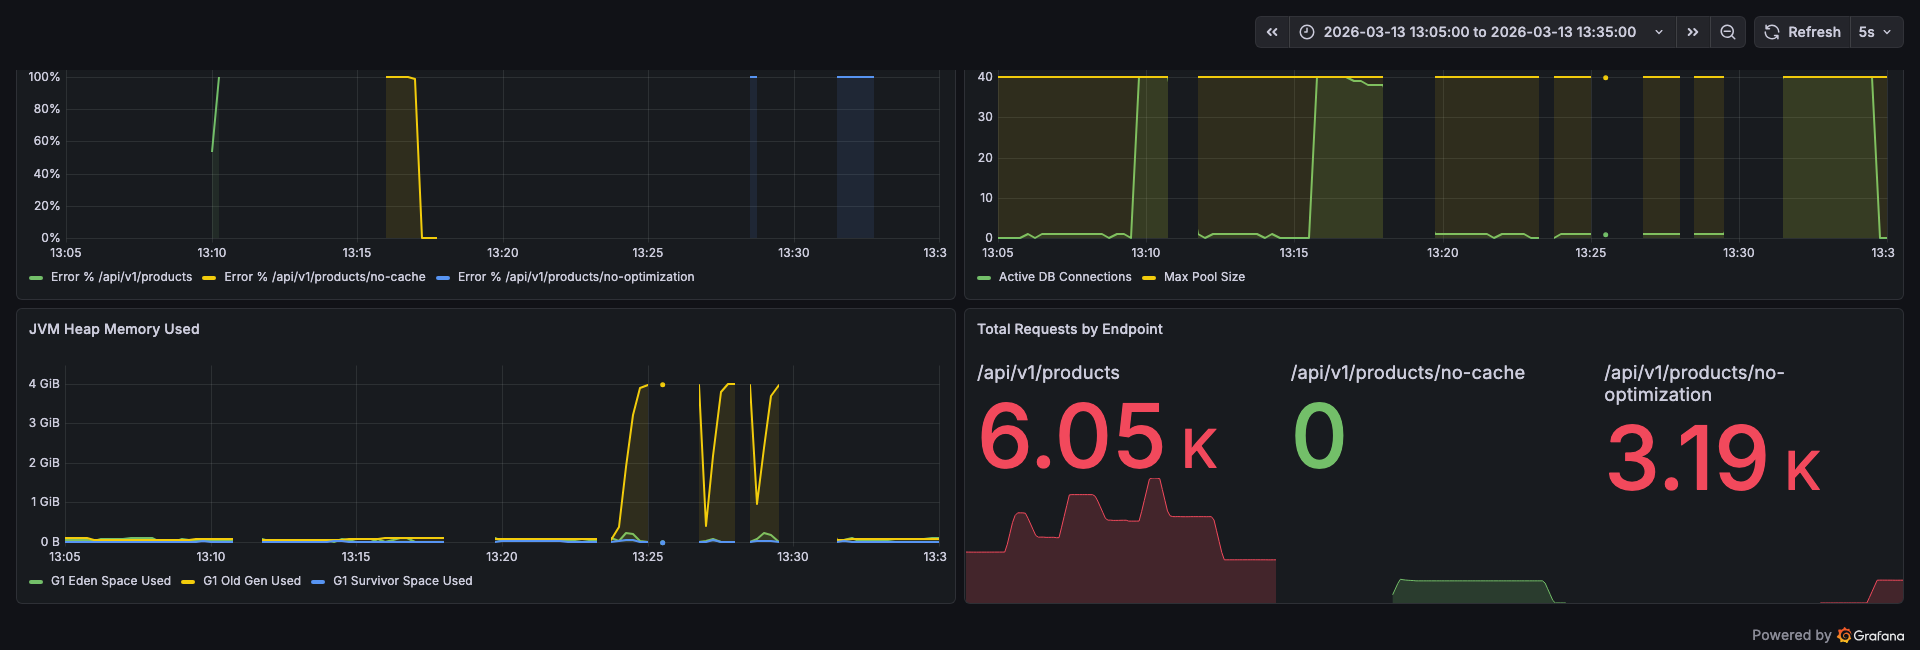
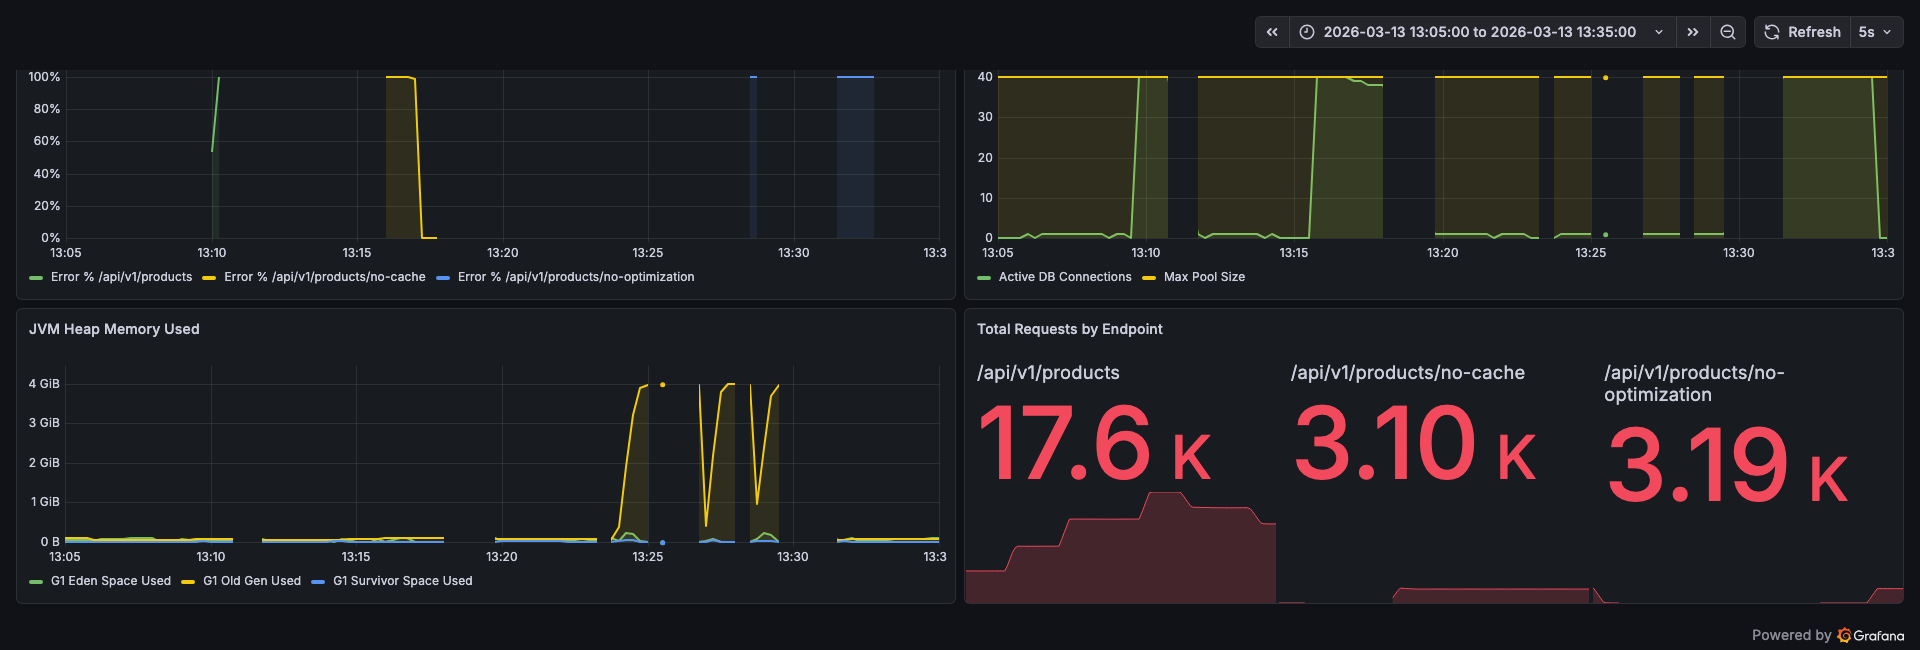
docs: 블로그 톤 개선 + Grafana Total Requests 패널 수정
- 블로그를 "왜 그렇게 판단했는가" 중심으로 전면 재작성
- TL;DR 추가, AS-IS/TO-BE 비교 강화, 판단 흐름이 읽히는 톤
- Grafana Total Requests 쿼리를 [15m] → [$__range]로 수정
  → no-cache 엔드포인트가 0으로 표시되던 문제 해결 (3.10K로 정상 표시)

diff --git a/blog/blog-week5-read-optimization.md b/blog/blog-week5-read-optimization.md
@@ -1,88 +1,168 @@
-# "상품 조회가 느리다" — 인덱스, 비정규화, 멀티 레이어 캐시로 읽기 성능을 구조적으로 개선한 과정
+# 좋아요 순으로 정렬하자 서버가 하염없이 느려졌다
 
 ---
 
-## 문제 인식
-
-이커머스 API의 상품 목록 조회가 느렸다. 원인은 세 가지였다.
-
-1. **전량 로딩**: 10만 건의 상품을 메모리에 올려 Java `Comparator`로 정렬
-2. **매 요청마다 COUNT 집계**: 좋아요 수를 `likes` 테이블에서 `GROUP BY`로 계산
-3. **캐시 부재**: 동일한 쿼리가 매번 DB를 직격
-
-단건 응답 시간이 2초(10만 건), 308초(1000만 건). K6로 200 RPS를 걸면 99.4% 요청이 실패했다. 서비스 불능 상태였다.
+> **TL;DR**: 1000만 건 상품 목록 조회가 100% 실패하던 구조를, 인덱스 + 비정규화 + 멀티 레이어 캐시(L1 Caffeine + L2 Redis)로 P95 8ms / 에러율 0%까지 개선했다. 이 글은 그 과정에서 내린 판단들과, 왜 그렇게 결정했는지에 대한 기록이다.
 
 ---
 
-## 최적화 전략 — 세 겹의 방어선
+## 문제를 처음 마주했을 때
 
-### 1. 인덱스 + 비정규화: DB 레벨에서 해결
+상품 목록 조회 API에 좋아요 순 정렬을 추가하면서 문제가 시작됐다.
 
-좋아요 수를 `likes` 테이블에서 매번 `COUNT(*)`로 파생시키던 구조를 `Product.likeCount` 컬럼으로 비정규화했다. 이전 주차에서 쓰기 경합 제거를 위해 `likeCount`를 제거했었다. 하지만 읽기 병목이 명확해진 시점에서, **트레이드오프의 축이 바뀌었다**고 판단했다.
+처음에는 단순하게 접근했다. `likes` 테이블에서 `GROUP BY product_id`로 좋아요 수를 세고, Java `Comparator`로 정렬하면 되지 않을까. 10만 건 정도에서는 2초 걸렸다. 느리긴 했지만 동작은 했다.
+
+그런데 데이터를 1000만 건으로 늘려보니 상황이 달라졌다. 단건 응답이 308초. K6로 100 rps를 걸면 99% 이상의 요청이 타임아웃으로 실패했다. 이건 "느린 서비스"가 아니라 **서비스 불능** 상태였다.
+
+원인을 분석해보니 세 가지가 겹쳐 있었다.
+
+1. 전체 상품을 메모리에 올려 정렬하고 있었다 (DB가 아닌 Java에서)
+2. 좋아요 수를 매 요청마다 COUNT 집계로 파생시키고 있었다
+3. 동일한 쿼리가 반복되는데 캐시가 없었다
+
+하나만 고쳐서는 안 될 것 같았다. 각각의 문제에 대해 어떤 순서로, 어떤 기준으로 접근할지 고민했다.
+
+---
+
+## 판단 1. 좋아요 수를 어디에 둘 것인가
+
+가장 먼저 마주한 건 `likeCount`의 위치 문제였다.
+
+사실 이전에 쓰기 경합을 줄이기 위해 `likeCount` 컬럼을 의도적으로 제거한 적이 있었다. 좋아요가 몰릴 때 같은 row에 대한 UPDATE 경합이 발생하니까, 차라리 `COUNT(*)`로 파생시키는 게 낫다고 판단했었다.
+
+그런데 이번에 읽기 병목을 마주하면서, 같은 구조를 다른 눈으로 보게 됐다.
 
 | 시점 | 우선순위 | 결정 |
 |------|---------|------|
-| 이전 주차 | 쓰기 경합 해소 > 읽기 성능 | `likeCount` 제거, `COUNT(*)` 파생 |
-| 이번 주차 | 읽기 성능 > 쓰기 경합 | `likeCount` 재도입, atomic SQL로 경합 최소화 |
+| 이전 | 쓰기 경합 해소 > 읽기 성능 | `likeCount` 제거, `COUNT(*)` 파생 |
+| 현재 | 읽기 성능 > 쓰기 경합 | `likeCount` 재도입, atomic SQL로 경합 최소화 |
 
-비정규화와 함께 유스케이스 기반 복합 인덱스 4개를 설계했다.
+**트레이드오프의 축이 바뀌었다**고 느꼈다. 쓰기 경합은 atomic UPDATE(`SET like_count = like_count + 1`)로 줄일 수 있지만, 1000만 건에서 매번 `COUNT(*) GROUP BY`를 치는 건 구조적으로 한계가 있었다. "이전에 내린 판단이 틀렸다"기보다는, 문제의 무게중심이 달라졌다.
+
+---
+
+## 판단 2. 인덱스를 어떻게 설계할 것인가
+
+비정규화만으로는 부족했다. 1000만 건에서 `ORDER BY like_count DESC`를 하면, 인덱스 없이는 전체 테이블 스캔 + filesort가 발생한다.
+
+처음에는 `like_count`에 단일 인덱스를 걸었다. 그런데 브랜드 필터가 걸리면 인덱스를 타지 못했다. `WHERE brand_id = ? ORDER BY like_count DESC` — 이 조합은 단일 컬럼 인덱스로 커버되지 않는다.
+
+결국 **유스케이스별로 복합 인덱스**를 설계했다.
 
 ```
-idx_product_like_count        (like_count DESC, id DESC)         → 전체 + 좋아요순
+idx_product_like_count        (like_count DESC, id DESC)           → 전체 + 좋아요순
 idx_product_brand_like_count  (brand_id, like_count DESC, id DESC) → 브랜드 필터 + 좋아요순
-idx_product_brand_price       (brand_id, price ASC, id ASC)      → 브랜드 필터 + 가격순
-idx_likes_product_id          (product_id)                       → 좋아요 카운트 커버링 인덱스
+idx_product_brand_price       (brand_id, price ASC, id ASC)        → 브랜드 필터 + 가격순
+idx_likes_product_id          (product_id)                         → 좋아요 카운트 커버링
 ```
 
-EXPLAIN 결과, 1000만 건에서 스캔 행이 **9,955,217 → 20**으로 감소했다. 인덱스가 이미 정렬되어 있으므로 `LIMIT`만큼만 읽는다.
+EXPLAIN으로 전후를 비교해보니 차이가 명확했다.
 
-### 2. Redis 캐시: 네트워크 너머의 방어선
+**AS-IS (인덱스 없음)**:
+```
+type: ALL | rows: 9,955,217 | Extra: Using filesort
+```
 
-인덱스로 쿼리 자체는 빨라졌지만, 매 요청이 DB를 치는 구조는 RPS가 올라가면 HikariCP 풀(40개)이 포화된다. Cache-Aside 패턴의 Redis 캐시를 적용했다.
+**TO-BE (복합 인덱스 적용)**:
+```
+type: range | rows: 20 | Extra: Using index condition
+```
 
-- **상품 상세**: `product:detail:{id}`, TTL 10분
-- **상품 목록**: `product:list:v{version}:brand:...:sort:...:page:...`, TTL 5분
-- **무효화**: 목록은 버전 기반 — `INCR product:list:version`으로 O(1) 무효화. `SCAN`/`KEYS` 패턴 삭제를 회피
+스캔 행이 9,955,217 → 20으로 줄었다. 인덱스가 이미 정렬되어 있으므로 `LIMIT`만큼만 읽고 멈춘다.
 
-Redis 장애 시에는 try-catch로 DB 직접 조회. 캐시는 **필수 의존이 아니라 최적화 계층**이다.
+---
 
-### 3. L1 Caffeine + L2 Redis: 멀티 레이어 캐시
+## 판단 3. 인덱스만으로 충분한가
 
-모든 캐시 조회가 Redis 네트워크 왕복(1~3ms)을 거치고 있었다. 인기 상품처럼 반복 조회되는 데이터에 대해 JVM 로컬 캐시(Caffeine)를 L1으로 추가하면, 같은 스레드 풀에서 더 많은 요청을 처리할 수 있다.
+여기서 한 가지 착각할 뻔했다. EXPLAIN 결과가 극적으로 좋아지니까, "인덱스면 충분하지 않나?"라는 생각이 들었다.
 
-**Look-Aside 흐름:**
+그래서 **인덱스만 적용하고 캐시를 뺀 상태**로 부하 테스트를 돌려봤다. 결과는 예상 밖이었다.
+
+| 시나리오 | P95 | Error Rate | 처리량 |
+|---------|-----|-----------|--------|
+| 인덱스 없음 | 3.01s | 100% | 51 rps |
+| **인덱스+비정규화, 캐시 없음** | **3.02s** | **99.65%** | **35 rps** |
+
+인덱스를 걸었는데 오히려 처리량이 떨어졌다. 왜?
+
+Grafana의 HikariCP 패널에서 답을 찾았다. **커넥션 40개가 전부 점유**되어 있었다. 인덱스가 단건 쿼리를 빠르게 하는 건 맞지만, 100 rps로 동시에 밀려오는 요청이 각각 DB 커넥션을 잡으면, 커넥션 풀이 포화되면서 뒤따르는 요청들이 대기 큐에 빠진다. 한 건의 쿼리가 1ms여도, **커넥션을 기다리는 시간이 3초**가 된다.
+
+이 시점에서 깨달은 것: 캐시의 본질적 가치는 "빠른 응답"이 아니라 **"DB에 안 가게 하는 것"** 이다.
+
+---
+
+## 판단 4. 캐시 전략을 어떻게 설계할 것인가
+
+캐시를 적용하기로 했다. 그런데 결정할 게 많았다.
+
+### TTL은 어떻게?
+
+- 상품 상세: TTL 10분. 상품 정보는 자주 바뀌지 않고, 변경 시 명시적으로 evict한다.
+- 상품 목록: TTL 5분. 목록은 새 상품 등록, 좋아요 변동 등으로 상대적으로 자주 바뀐다.
+
+처음에는 둘 다 10분으로 뒀는데, 목록 캐시가 너무 오래 유지되면 "방금 좋아요 눌렀는데 순위가 안 바뀌어요" 같은 불만이 생길 것 같았다. 결국 목록의 TTL을 짧게 조정했다.
+
+### 무효화 전략은?
+
+상품 상세는 단건이니까 `evict(productId)`로 충분하다. 문제는 목록이었다. 브랜드, 정렬, 페이지 조합으로 캐시 키가 무수히 많다.
+
+처음에는 패턴 매칭 삭제(`SCAN`)를 고려했다. 하지만 키가 수천 개일 때 O(N) 순회는 Redis에 부담이 된다. 결국 **버전 기반 무효화**를 선택했다.
+
+```
+캐시 키: product:list:v{version}:brand:3:sort:likeCount:page:0:size:20
+무효화: INCR product:list:version → 기존 키는 자연스럽게 miss
+```
+
+O(1)이고, 기존 키는 TTL이 만료되면 알아서 정리된다. 다만 무효화 시 모든 목록 캐시가 한꺼번에 miss되는 thundering herd 가능성은 있다. 현재 규모에서는 DB가 충분히 감당할 수 있다고 판단했지만, 트래픽이 10배로 늘면 재고해야 할 지점이다.
+
+### Redis 장애 시에는?
+
+try-catch로 감싸서 DB 직접 조회로 폴백한다. 캐시는 **최적화 계층이지 필수 의존이 아니다**. 이 원칙은 처음부터 정해두고 싶었다.
+
+---
+
+## 판단 5. 왜 Redis만으로 부족하다고 생각했는가
+
+Redis 캐시만 적용한 상태에서 P95가 10ms, 에러율 0%까지 떨어졌다. 충분히 만족할 만한 수치다.
+
+그런데 한 가지 마음에 걸렸다. 모든 캐시 조회가 Redis 네트워크 왕복을 거치고 있었다. Docker 환경에서 Redis가 localhost라 1ms 미만이지만, 실 운영에서 Redis가 별도 서버에 있으면 왕복 1~3ms가 추가된다. 수천 RPS에서 그 차이가 Tomcat 스레드 점유 시간으로 누적되면?
+
+인기 상품 상위 0.5%만 JVM 로컬 캐시(Caffeine)에 올리면 네트워크 비용 자체를 없앨 수 있다. 메모리는 ~1.5MB. 무시 가능한 비용이다.
+
 ```
 GET:   L1(Caffeine) hit → 반환 (μs)
        L1 miss → L2(Redis) hit → L1 backfill → 반환 (ms)
        양쪽 miss → DB 조회 → L2 저장 → L1 저장
-
-PUT:   L2 먼저 → L1  (L2가 truth source)
-EVICT: L1 먼저 → L2  (stale 서빙 시간 최소화)
 ```
 
-| 캐시 | maxSize | TTL | 메모리 | 근거 |
-|------|---------|-----|--------|------|
-| 상품 상세 (L1) | 500 | 30초 | ~150KB | hot data 0.5% 커버 |
-| 상품 목록 (L1) | 200 | 15초 | ~1.2MB | 인기 조합 커버 |
-| **총 메모리** | — | — | **~1.5MB** | 무시 가능 |
+**벤치마크 결과 (동일 조건: 100 rps, 1분, 1000만 건)**:
+
+| 시나리오 | P50 | P95 | Error Rate | 처리량 |
+|---------|-----|-----|-----------|--------|
+| L2 Redis Only | 6.47ms | 10.19ms | 0% | 100 rps |
+| **L1+L2 Multi-Layer** | **4.76ms** | **8.04ms** | **0%** | **100 rps** |
+
+수치 차이는 2ms다. 하지만 이건 Redis가 localhost인 Docker 환경의 결과다. 실 운영에서는 이 차이가 더 벌어질 거라고 예상한다.
 
 ---
 
-## DIP — 캐시도 인터페이스로 분리한 이유
+## 판단 6. 캐시 구현체를 인터페이스로 분리한 이유
 
-Repository는 DIP를 잘 지키고 있었다. `ProductRepository`(domain interface) ← `ProductRepositoryImpl`(infrastructure). 그런데 캐시는 `ProductCacheService`라는 concrete class가 application 레이어에서 `RedisTemplate`을 직접 의존하고 있었다.
+멀티 레이어 캐시를 만들면서 구조적인 문제를 발견했다.
+
+기존 `ProductCacheService`는 application 레이어의 concrete class인데, `RedisTemplate`을 직접 의존하고 있었다. Repository는 DIP를 잘 지키고 있었는데, 캐시만 예외였다.
 
 ```
-// Repository — DIP 준수 ✅
+// Repository — DIP 준수
 ProductFacade → ProductRepository (domain interface) ← ProductRepositoryImpl (infrastructure)
 
-// 캐시 — DIP 위반 ❌
+// 캐시 — DIP 위반
 ProductFacade → ProductCacheService (concrete, RedisTemplate 직접 의존)
 ```
 
-실무 문제는 테스트에서 먼저 드러났다. `FakeProductCacheService extends ProductCacheService`에서 `super(null, null, null)`을 호출해야 했다. 생성자 시그니처가 바뀌면 모든 Fake가 깨진다.
+처음에는 "캐시니까 그냥 이대로 써도 되지 않을까" 싶었다. 그런데 테스트를 작성하면서 문제를 체감했다. Fake 객체를 만들려면 `extends ProductCacheService`에서 `super(null, null, null)`을 호출해야 했다. 생성자 파라미터가 바뀔 때마다 모든 Fake가 깨진다.
 
-**해결**: `ProductCachePort` 인터페이스를 application에, 구현체 3개를 infrastructure에 분리했다.
+L1, L2, MultiLayer 세 개의 구현체가 필요한 시점에서, 인터페이스 분리는 선택이 아니라 필수였다.
 
 ```
 ProductCachePort (application, interface)
@@ -91,76 +171,62 @@ ProductCachePort (application, interface)
   └── MultiLayerProductCacheAdapter (infrastructure, @Primary, L1+L2)
 ```
 
-호출부(`ProductFacade`, `LikeController`)는 타입과 변수명만 교체. 메서드 시그니처가 동일하므로 호출 코드의 구조적 변경은 없다. 테스트 Fake는 인터페이스를 구현하므로 생성자 의존이 사라졌다.
+호출부(`ProductFacade`, `LikeController`)는 타입과 변수명만 교체하면 됐다. 메서드 시그니처가 동일하니까.
 
 ---
 
-## 검증 — Docker 환경에서 10M 데이터로 측정
+## 검증 — 어떻게 측정했는가
 
-### 테스트 환경 구성
+"좋아졌다"고 말하려면 수치가 필요했다. 그리고 **각 계층이 얼마나 기여하는지** 분리해서 보고 싶었다.
 
-프로덕션에 가까운 조건을 로컬에서 재현했다.
+### 환경 구성
 
-- **MySQL** (Docker): 상품 1000만 건, 브랜드 500개, 회원 5000명, 좋아요 95만 건 (멱법칙 분포)
-- **Redis** (Docker): Master-Replica 토폴로지
+- **MySQL** (Docker): 상품 1000만 건, 브랜드 500개, 회원 5000명, 좋아요 95만 건
+- **Redis** (Docker): Master-Replica 구성
 - **K6**: 100 rps, 1분, constant-arrival-rate
-- **Prometheus + Grafana**: 응답 시간, 에러율, HikariCP, JVM 실시간 모니터링
+- **Prometheus + Grafana**: P95, RPS, Error Rate, HikariCP, JVM Heap 모니터링
 
 ### 비교군 설계
 
-단일 지표만으로는 "왜 이 구조를 선택했는가"를 설명할 수 없다. 각 최적화 계층의 기여분을 분리하기 위해 A/B 비교 엔드포인트를 추가했다.
+각 최적화 계층의 기여분을 분리하기 위해 A/B 비교 엔드포인트를 추가했다.
 
 | 엔드포인트 | 인덱스 | 비정규화 | 캐시 | 증명하는 것 |
 |-----------|--------|---------|------|-----------|
-| `/products/no-optimization` | X | X | X | **기준선** — 최적화 필요성 |
-| `/products/no-cache` | O | O | X | DB 레벨 최적화의 한계 |
-| `/products` (L2 Redis Only) | O | O | L2 | 분산 캐시 단독 효과 |
-| `/products` (L1+L2) | O | O | L1+L2 | 로컬 캐시 추가 효과 |
+| `/products/no-optimization` | X | X | X | 기준선 — 왜 최적화가 필요한가 |
+| `/products/no-cache` | O | O | X | 인덱스만으로 충분한가 |
+| `/products` (L2) | O | O | L2 | 캐시 하나로 얼마나 달라지는가 |
+| `/products` (L1+L2) | O | O | L1+L2 | 로컬 캐시가 추가로 줄여주는 것 |
 
-### 결과
+### Grafana에서 읽은 것
 
-| 시나리오 | P50 | P95 | Error Rate | 처리량 | 상태 |
-|---------|-----|-----|-----------|--------|------|
-| No Optimization | 3.00s | 3.01s | **100%** | 51 rps | 완전 붕괴 |
-| No Cache (인덱스+비정규화) | 3.00s | 3.02s | **99.65%** | 35 rps | 완전 붕괴 |
-| L2 Redis Only | 6.47ms | 10.19ms | 0% | 100 rps | 안정 |
-| **L1+L2 Multi-Layer** | **4.76ms** | **8.04ms** | **0%** | **100 rps** | **안정** |
+![P95 Response Time + P50/RPS](../docs/images/grafana-dashboard-top.png)
+![P50 + RPS + Error Rate + HikariCP](../docs/images/grafana-dashboard-middle.png)
+![Error Rate + HikariCP + JVM Heap + Total Requests](../docs/images/grafana-dashboard-bottom.png)
 
-**읽는 법:**
-- No Optimization → No Cache: 인덱스+비정규화를 적용해도, 1000만 건에서 100 rps를 DB만으로 감당하면 HikariCP 풀이 포화된다. **인덱스는 단건 쿼리를 빠르게 하지만, 고부하에서 DB 커넥션 경합은 별개 문제다.**
-- No Cache → L2 Redis: 캐시를 도입하면 DB 커넥션을 소비하지 않는다. P95가 3초 → 10ms로, 에러율이 99% → 0%로 전환된다. **캐시가 서비스 가용성을 결정한다.**
-- L2 Redis → L1+L2: P95 10ms → 8ms. Redis 네트워크 왕복(~2ms)을 제거한 효과다. 절대값은 작지만, RPS가 수천으로 올라가면 Tomcat 스레드 점유 시간의 차이가 누적된다.
+숫자 테이블보다 Grafana가 더 직관적으로 보여주는 것들이 있었다.
 
-### Grafana 모니터링
+**HikariCP 패널이 진짜 병목을 드러냈다.** 비캐시 구간에서 40개(Max Pool) 전부 점유, 캐시 구간에서 1~2개. 느린 쿼리 하나가 문제가 아니라, 느린 쿼리가 커넥션을 물고 놓지 않으면 뒤따르는 모든 요청이 대기에 빠진다. 이걸 보고 나서 "캐시는 속도 최적화"라는 생각이 바뀌었다. **캐시는 가용성 확보**다.
 
-![Response Time + RPS](../docs/images/grafana-10m-l1l2-response-time-rps.png)
-![Error Rate + HikariCP + JVM](../docs/images/grafana-10m-l1l2-error-hikari-jvm.png)
+**RPS 패널에서 서비스 용량의 차이가 보였다.** 비캐시는 목표 100 rps에 실제 35~51 rps만 처리하고 나머지는 유실됐다. 캐시를 적용하니 100 rps를 안정적으로 소화했다. 같은 하드웨어에서 캐시 유무가 처리 가능 트래픽을 2~3배 갈랐다.
 
-K6 실행 구간에서 Grafana를 통해 다음을 확인했다:
-- **P95 Response Time**: L1+L2는 바닥(~8ms), No Optimization은 3초+ 타임아웃
-- **HikariCP Active Connections**: 캐시 적용 시 1~2개, 미적용 시 40개(Max Pool) 포화
-- **Error Rate**: L1+L2 = 0%, No Optimization = 100%
+**L2 → L1+L2 차이는 환경의 한계를 알고 읽어야 한다.** 10ms → 8ms, 2ms 차이. Redis가 localhost여서 네트워크 latency가 거의 0인 Docker 환경이기 때문이다. 실 운영에서 Redis가 별도 서버에 있으면 이 차이는 더 벌어진다.
 
 ---
 
 ## 시행착오
 
-**Docker `/tmp` 디스크 포화**: 1000만 건에서 No Optimization(전체 풀스캔 + filesort)을 먼저 돌리면, MySQL이 동시 정렬 임시 파일을 생성하면서 Docker VM의 디스크를 채웠다. 이후 실행하는 캐시 적용 테스트도 캐시 미스 시 DB 쿼리가 실패하며 연쇄적으로 무너졌다. **해결**: MySQL `sort_buffer_size`를 8MB로 증가시키고, 테스트 간 MySQL 컨테이너를 재시작하여 임시 파일을 정리했다.
+검증 과정이 순탄하지는 않았다.
 
-**`ddl-auto: create`로 데이터 유실**: local 프로필의 `ddl-auto: create` 설정 때문에, 앱을 재시작할 때마다 테이블이 재생성되어 시딩한 1000만 건이 날아갔다. **해결**: `--spring.jpa.hibernate.ddl-auto=none`을 JVM 인자로 전달하여 재시작 시 데이터를 보존했다.
+**Docker `/tmp` 디스크 포화.** No Optimization 테스트를 먼저 돌리면, 1000만 건 전체 풀스캔 + filesort가 MySQL 임시 파일을 대량 생성해서 Docker VM 디스크를 채웠다. 이후 돌리는 캐시 테스트도 캐시 미스 시 DB 쿼리가 `No space left on device`로 실패하며 연쇄적으로 무너졌다. MySQL `sort_buffer_size`를 8MB로 올리고, 테스트 간 MySQL 컨테이너를 재시작해서 해결했다.
+
+**앱 재시작 시 1000만 건 데이터 유실.** local 프로필의 `ddl-auto: create` 때문에, 앱을 재시작하면 테이블이 재생성됐다. Stored procedure로 30분 걸려 시딩한 데이터가 순식간에 날아가는 경험을 했다. `--spring.jpa.hibernate.ddl-auto=none`을 JVM 인자로 전달해서 해결했는데, 한 번 당하기 전에는 떠올리기 어려운 종류의 실수였다.
 
 ---
 
-## 정리
+## 돌아보며
 
-"상품 조회가 느리다"는 문제를, DB 레벨(인덱스 + 비정규화) → 분산 캐시(Redis) → 로컬 캐시(Caffeine) 세 겹의 방어선으로 해결했다. 각 계층의 기여분을 비교 엔드포인트와 K6 벤치마크로 분리 측정하여, 아키텍처 결정의 근거를 수치로 확보했다.
+이번 작업에서 가장 크게 배운 건, **같은 구조도 문제의 맥락이 바뀌면 다시 판단해야 한다**는 점이다. `likeCount` 비정규화가 대표적이다. 쓰기 경합 관점에서는 제거하는 게 맞았지만, 읽기 병목 관점에서는 다시 도입하는 게 맞았다. "이전에 결정한 거니까"라고 고집하지 않고, 현재의 문제에 맞게 재판단하는 게 중요했다.
 
-캐시 구현체는 DIP 원칙에 따라 `ProductCachePort` 인터페이스로 분리하고, L1/L2/MultiLayer를 각각 독립된 Adapter로 구현했다. 이 구조 덕분에 테스트 Fake가 concrete class 상속에서 해방되었고, 향후 캐시 구현체 교체나 레이어 추가가 인터페이스 뒤에서 이루어진다.
+그리고 인덱스만 믿고 캐시를 빼봤을 때 오히려 더 느려진 경험이 인상적이었다. EXPLAIN의 rows가 20이어도, 100 rps에서 커넥션 풀이 포화되면 의미가 없다. **단건 성능과 동시성 하의 성능은 완전히 다른 문제**라는 걸 체감했다.
 
-| 판단 | 선택 | 근거 |
-|------|------|------|
-| 좋아요 집계 | `likeCount` 비정규화 + atomic SQL | 읽기 성능 > 쓰기 경합 (축 전환) |
-| 인덱스 | 유스케이스별 복합 인덱스 4개 | EXPLAIN rows 497,760배 감소 |
-| 캐시 전략 | RedisTemplate 직접 사용 | 버전 기반 무효화, Master/Replica 분리 |
-| 캐시 아키텍처 | DIP + L1 Caffeine + L2 Redis | 네트워크 비용 제거, 테스트 안정성 |
-| 검증 방법 | Docker + 10M + K6 + Grafana | 비교 엔드포인트로 각 계층 기여분 분리 |
+아직 아쉬운 부분도 있다. 다중 서버 환경에서 L1 캐시의 일관성 문제는 짧은 TTL로 회피하고 있을 뿐, 근본적으로 해결하지는 않았다. 트래픽이 더 커지면 Redis Pub/Sub 기반의 L1 무효화를 추가해야 할 것 같다. 그건 다음 과제로 남겨둔다.
